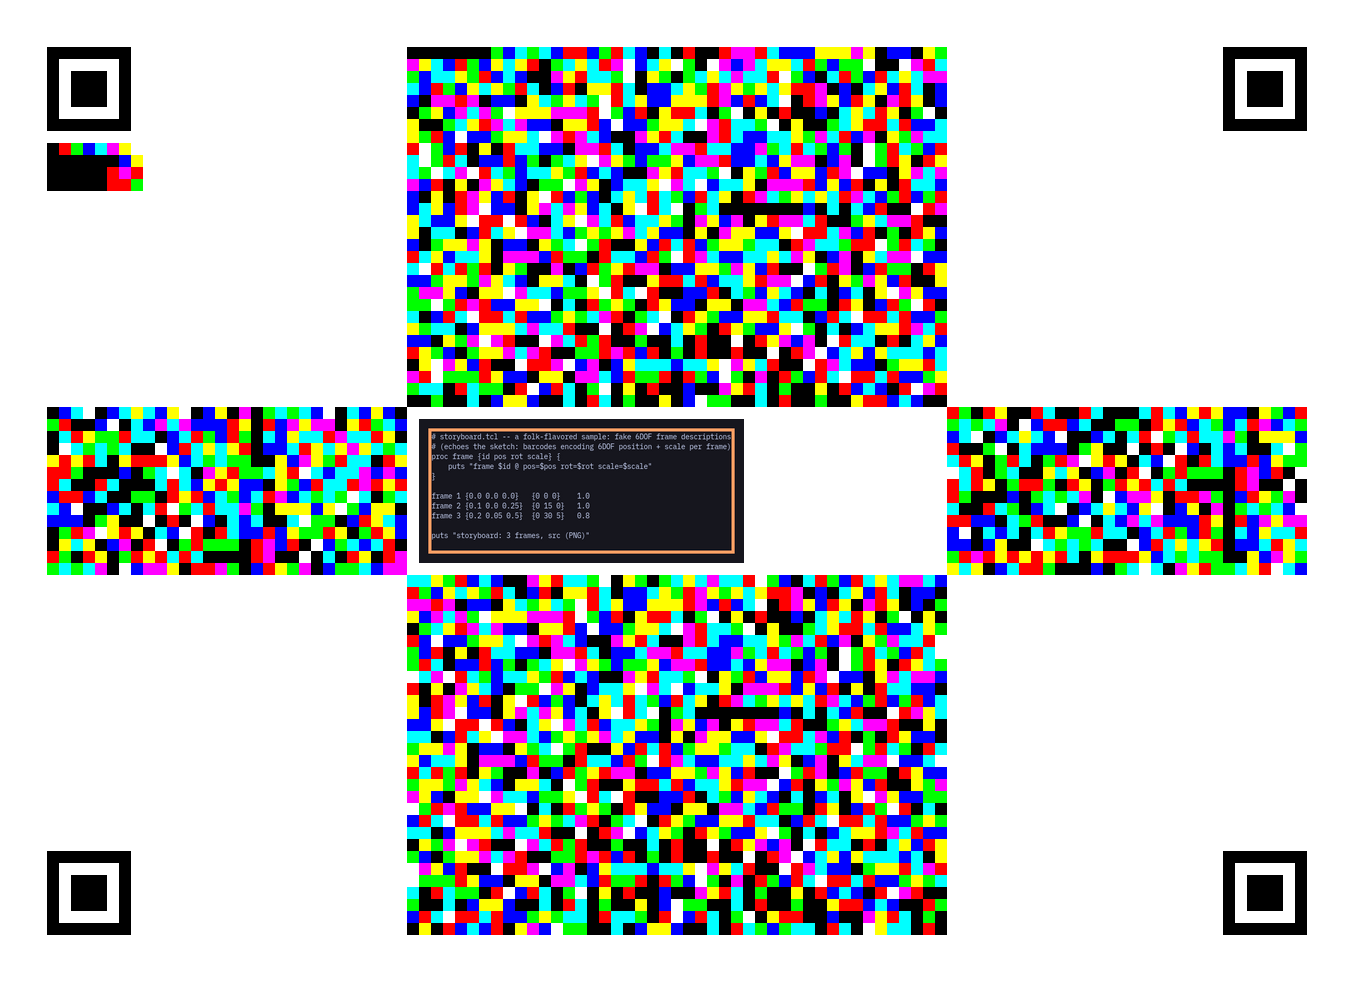
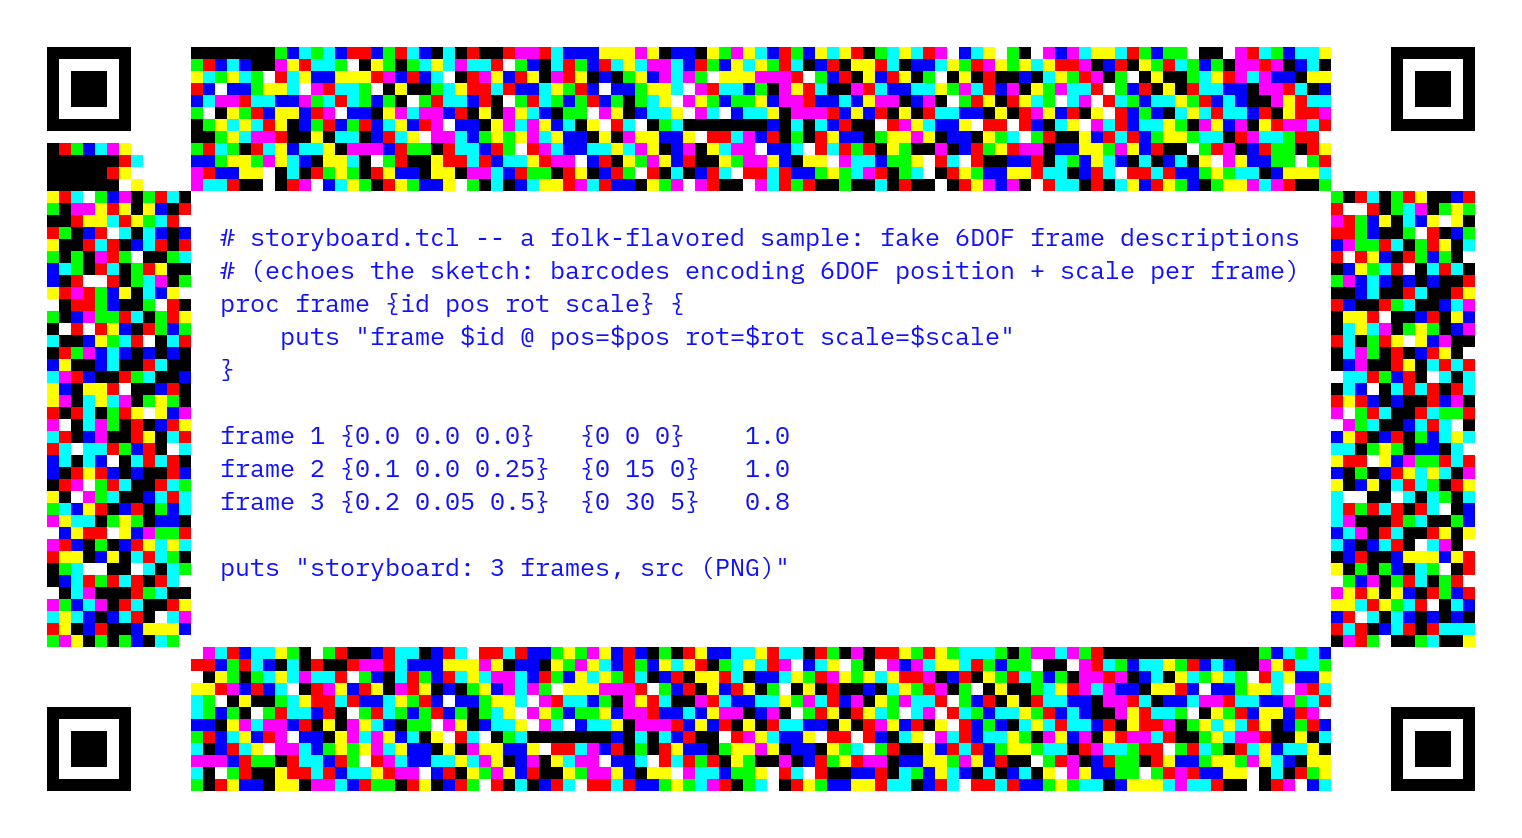
Make data frame minimal by default; 12pt #1010FF-on-white code panel
- minimal geometry is now the default: the band stays at the format
  minimum (12 cells) and the page perimeter grows to fit one packet;
  the band only deepens (capped at -maxbandmm, default 60mm) when the
  interior must stay small, then truncates to prefix + origin URL
- fixed geometry still available via -pagewmm/-pagehmm/-bandmm
- code panel renders at a physical minimum of 12pt (via -density, so
  12pt is 12pt at any DPI) and is never scaled down; composited
  centered in the interior
- text color changed to #1010FF on white for maximum non-black contrast
- new tests: minimal-mode roundtrip, thin-band assertion, capped
  oversize prefix recovery (34 checks total, all passing)

Claude-Session: https://claude.ai/code/session_01Af5UT4pM7JUXC6S2th1E8R

diff --git a/convertkit/README.md b/convertkit/README.md
@@ -49,9 +49,13 @@ tclsh bin/folkframe.tcl encode samples/storyboard.tcl page.png
 tclsh bin/folkframe.tcl decode whatever-came-back.jpg
 ```
 
-The page carries a ~6cm (parameterized, `-bandmm`) band of large color
-cells around the edge, inside a white quiet margin (printing comfort
-only — CV doesn't need it):
+The frame is **minimal by default**: the page grows just enough to hold
+the text panel at its physical size, and the band stays as thin as the
+format allows (12 cells), widening the perimeter — or, past that,
+deepening up to `-maxbandmm` (default 60) — only when the packet needs
+it. Fixed geometry is still available via `-pagewmm/-pagehmm/-bandmm`.
+The band is a ring of large color cells inside a white quiet margin
+(printing comfort only — CV doesn't need it):
 
 - **8-color palette** at the RGB cube corners, 3 bits/cell — maximum
   separation for inkjet inks; a **calibration strip** (all 8 colors in
@@ -71,8 +75,10 @@ only — CV doesn't need it):
   most of it, and the full source can be pulled from
   `http://<ip>/folk-data/program/<filename>`.
 - The interior shows the code set in the **vendored IBM Plex Mono**
-  (`fonts/`, OFL-licensed), and a `tEXt` chunk still carries the full
-  canonical XML as a lossless digital channel.
+  (`fonts/`, OFL-licensed) at a **minimum of 12pt physical** regardless
+  of frame size (never scaled down), in **#1010FF on white** for maximum
+  non-black contrast. A `tEXt` chunk still carries the full canonical
+  XML as a lossless digital channel.
 
 Decoder assumptions: axis-aligned raster (screenshot, or a deskewed
 scan); arbitrary uniform or anisotropic scaling, mild blur, and JPEG
